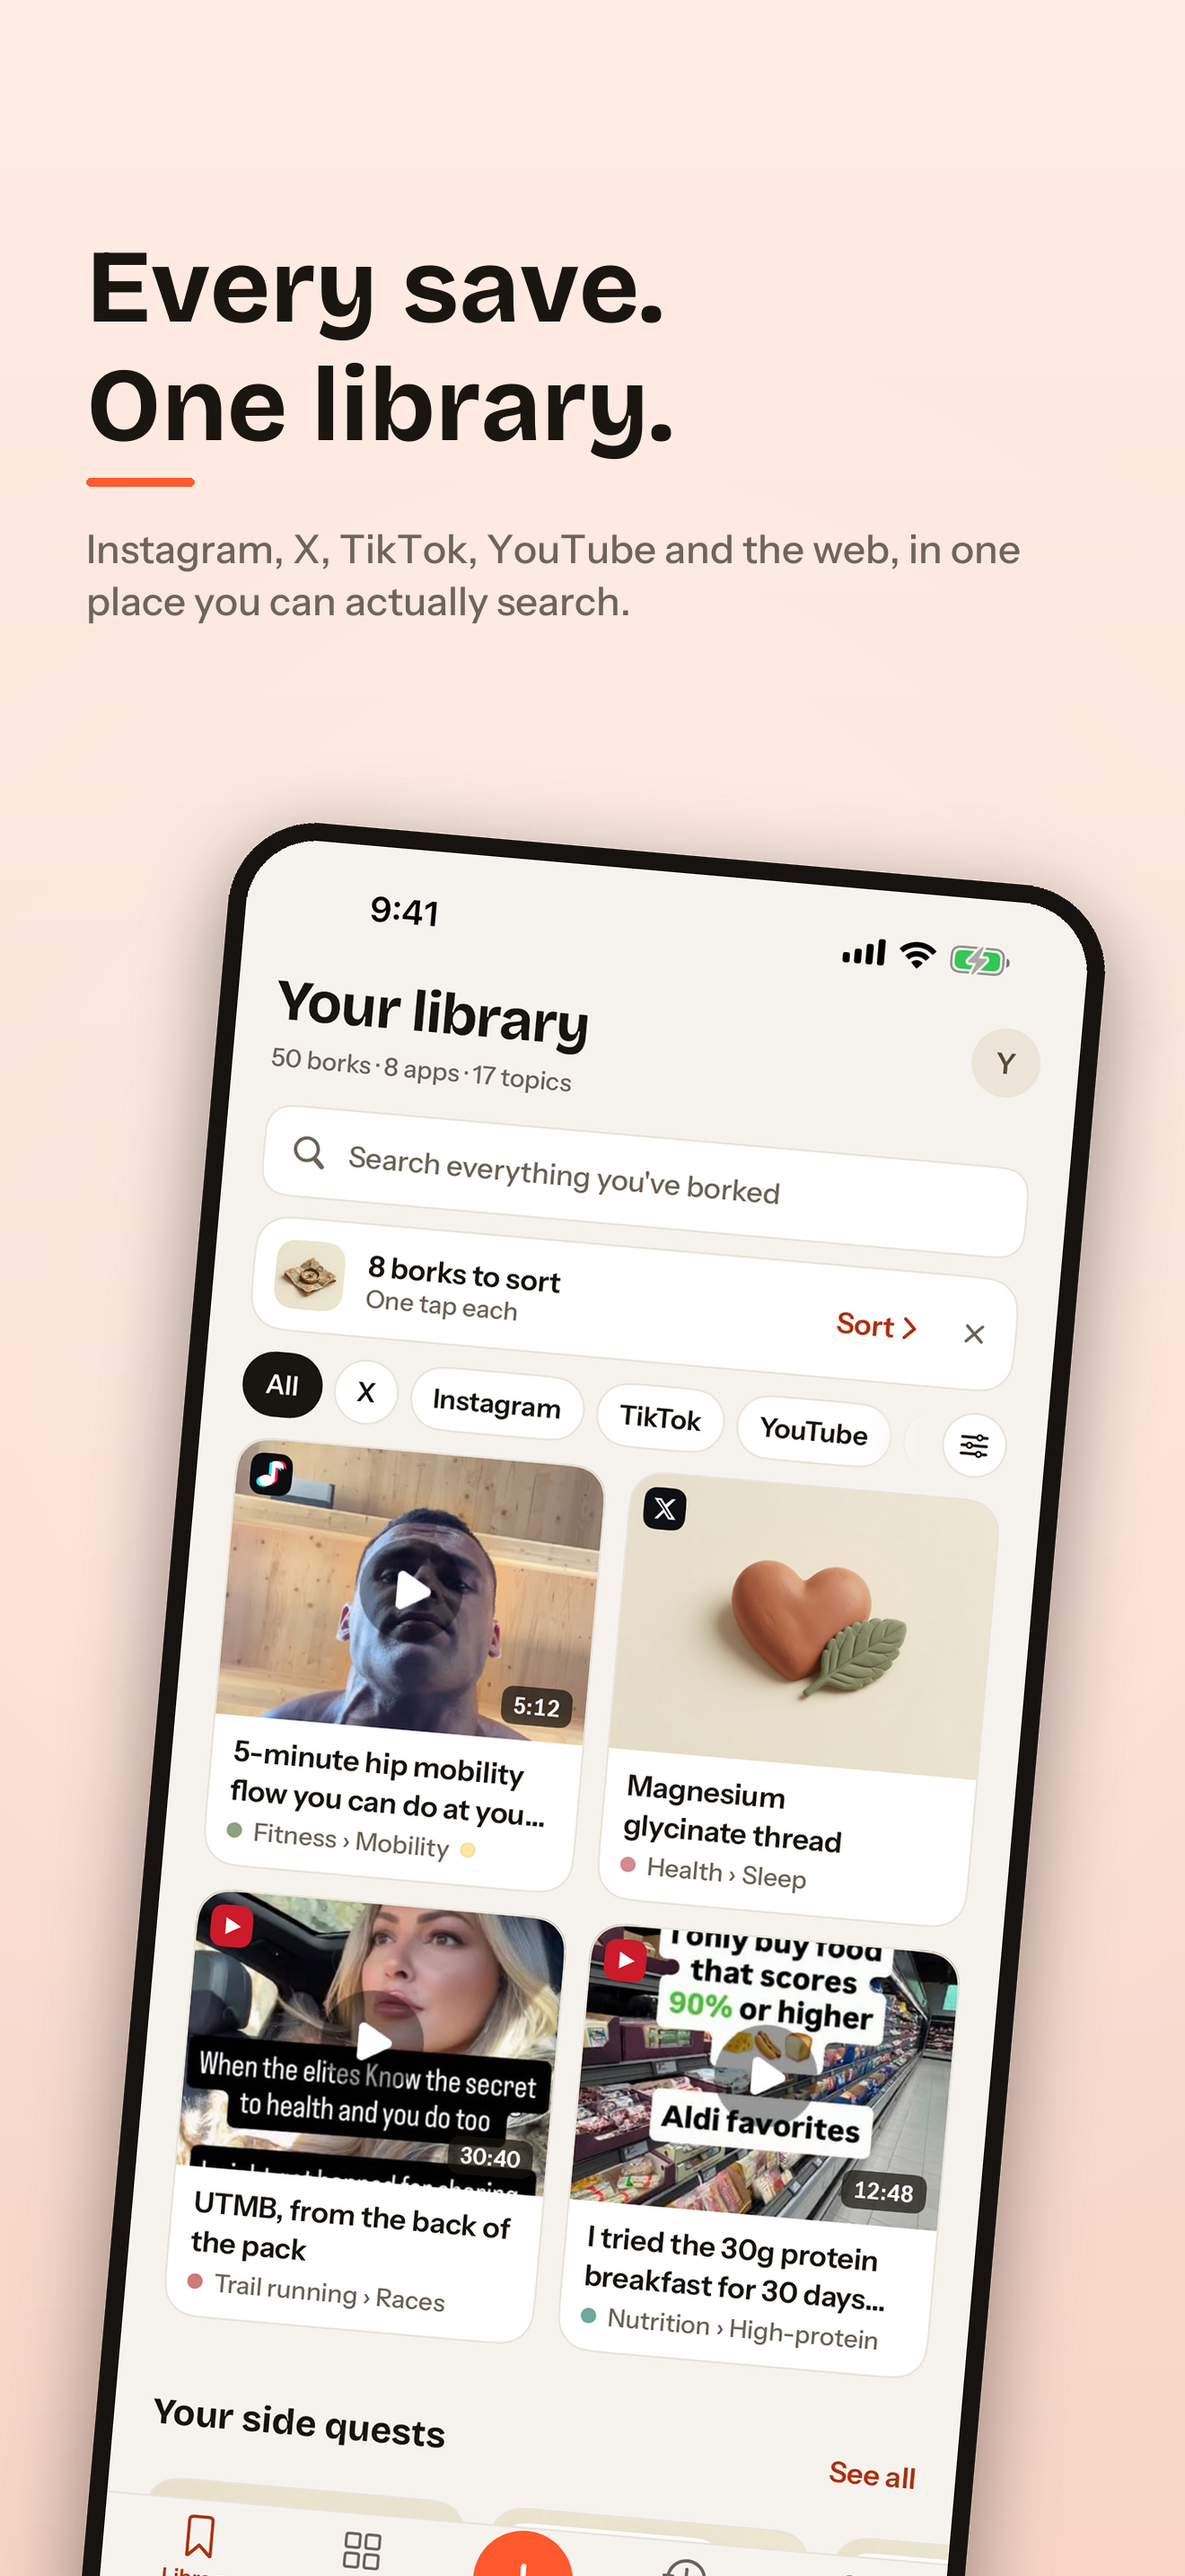
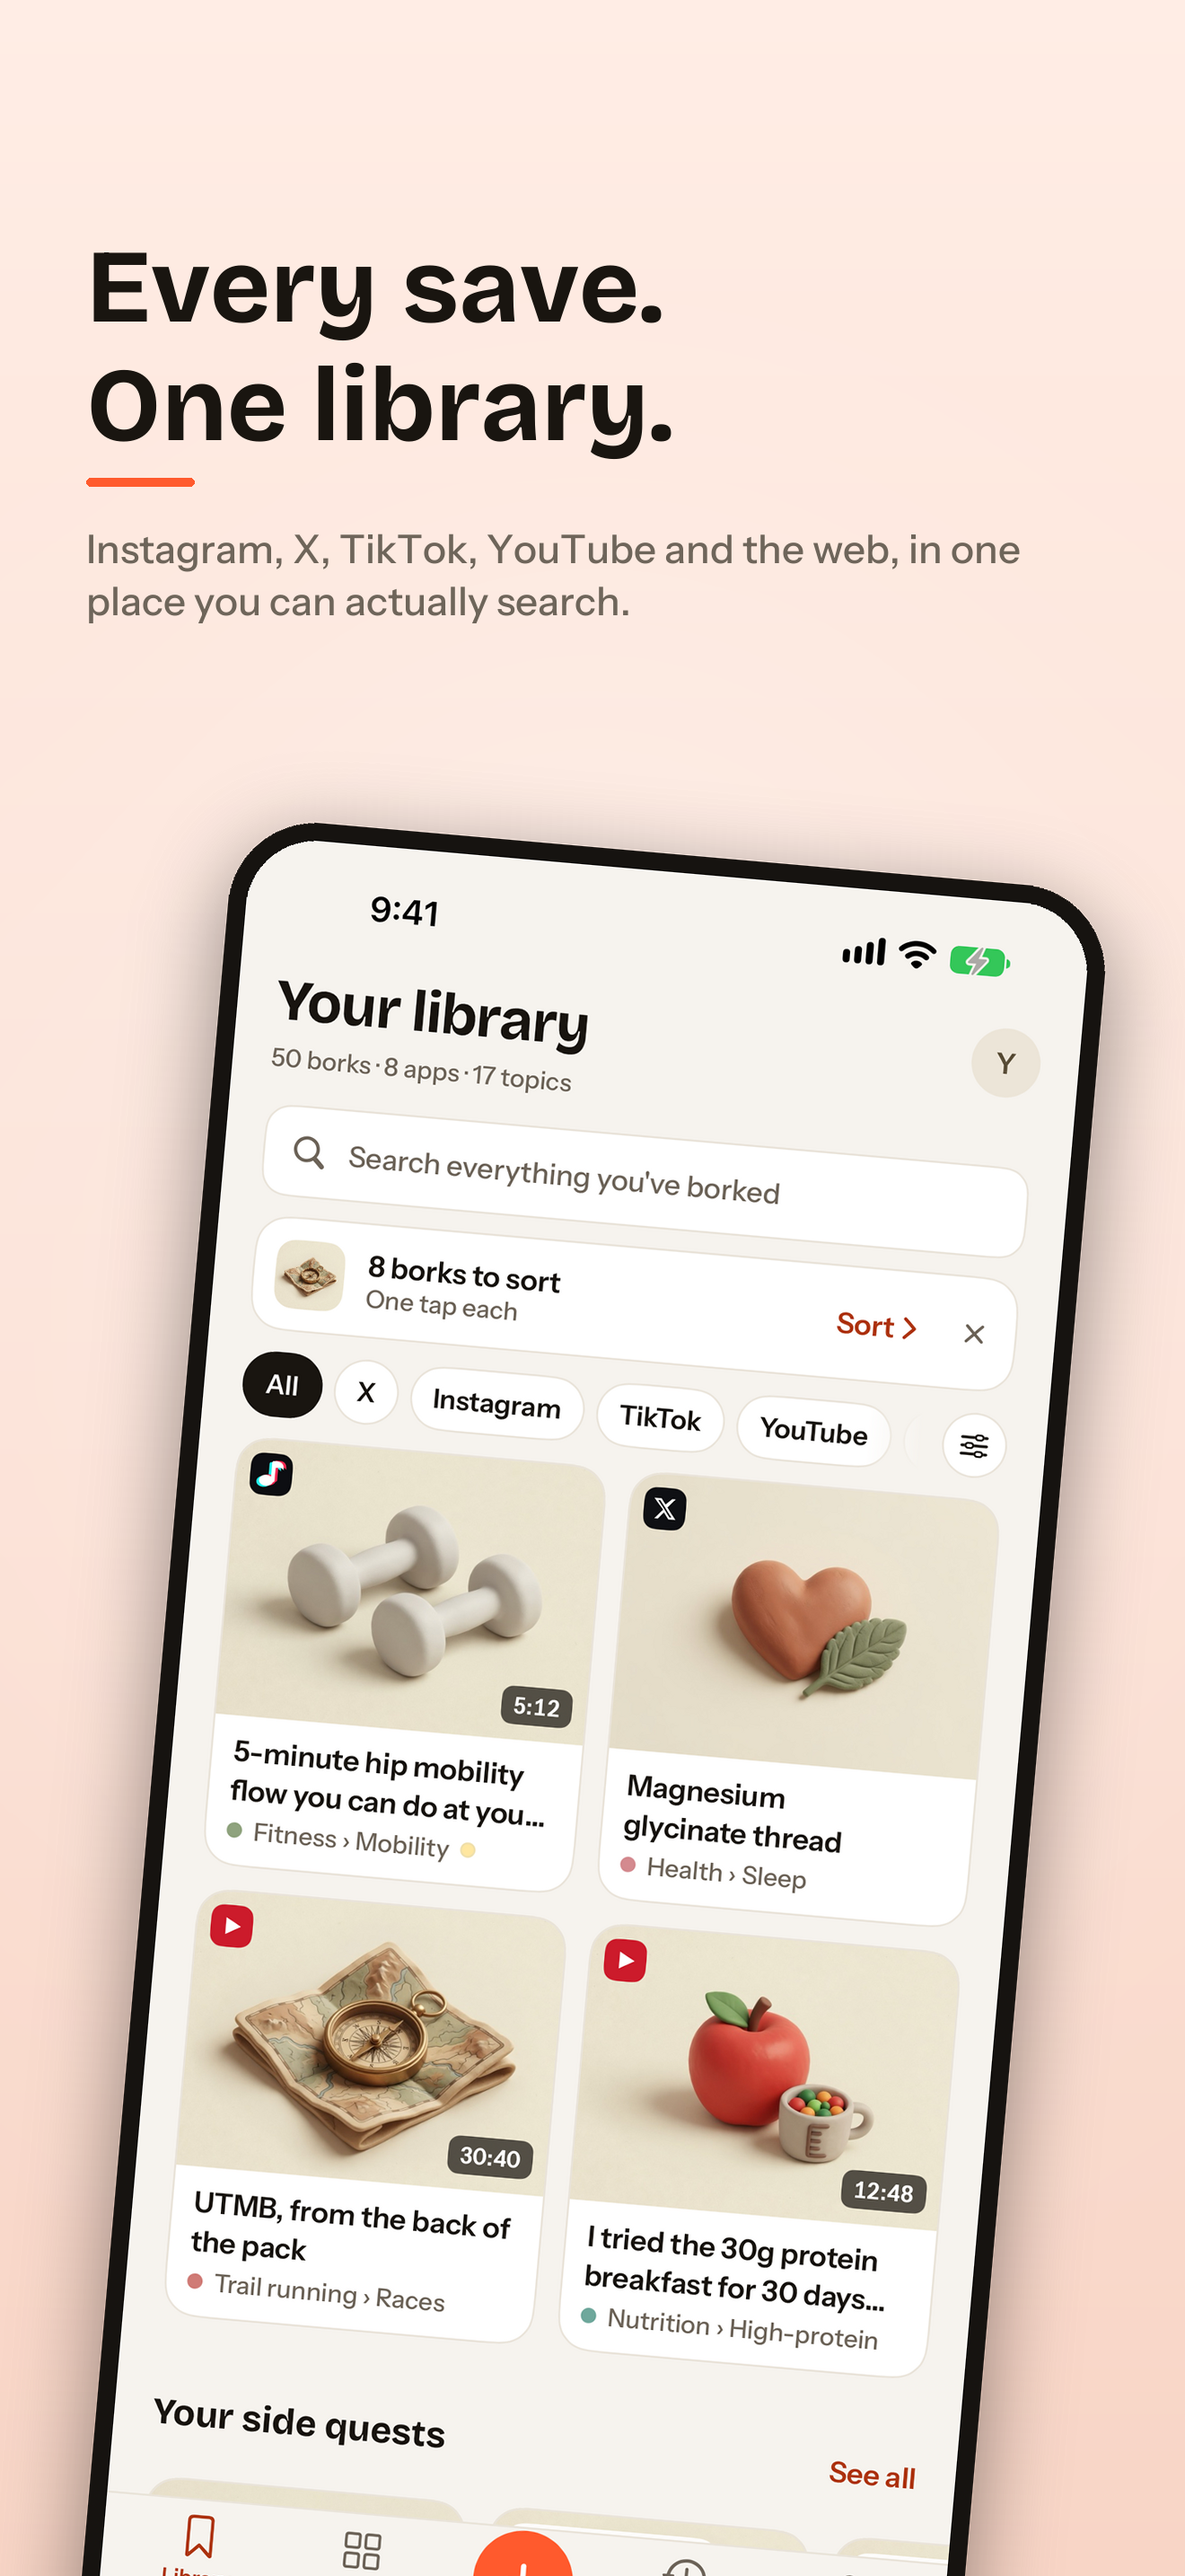
Yearly is $69.99; the App Store screenshots use the neutral covers
- Pro sheet and /pro: Yearly $69.99 ("5 months free", $5.83 a month).
- Marketing/screenshots and screenshots-6.5 are the neutral set (clay
  covers), and refresh_screenshots.sh composes them with NEUTRAL=1.

Changed region(s): [[0.1553, 0.7137, 0.8076, 0.8689], [0.1864, 0.5586, 0.528, 0.6827]]

diff --git a/App/Screens/ProSheet.swift b/App/Screens/ProSheet.swift
@@ -120,7 +120,7 @@ extension ProSheet {
         var price: String {
             switch self {
             case .monthly: "$9.99"
-            case .yearly: "$99.99"
+            case .yearly: "$69.99"
             case .lifetime: "$109"
             }
         }
@@ -133,10 +133,10 @@ extension ProSheet {
             }
         }
 
-        /// A year for the price of ten months of Monthly. Only Yearly has a
-        /// deal, and the plan with one wears the tinted card.
+        /// A year for about the price of seven months of Monthly. Only Yearly
+        /// has a deal, and the plan with one wears the tinted card.
         var deal: String? {
-            self == .yearly ? "Two months free" : nil
+            self == .yearly ? "Five months free" : nil
         }
 
         /// `https://bookmarker.lol/pro?plan=yearly&from=app-you`
@@ -144,7 +144,7 @@ extension ProSheet {
             URL(string: "https://bookmarker.lol/pro?plan=\(rawValue)&from=\(origin.rawValue)")!
         }
 
-        /// "Yearly, $99.99 a year, two months free"
+        /// "Yearly, $69.99 a year, five months free"
         var spoken: String {
             [name, "\(price) \(period)", deal?.lowercased()]
                 .compactMap { $0 }

diff --git a/docs/pro/index.html b/docs/pro/index.html
@@ -179,9 +179,9 @@
       <label class="plan" data-plan="yearly">
         <input type="radio" name="plan" value="yearly">
         <span class="dot" aria-hidden="true"></span>
-        <span class="plan-name">Yearly <span class="badge">2 months free</span></span>
-        <span class="plan-note">$8.33 a month, billed yearly</span>
-        <span class="plan-price"><b>$99.99</b><span>a year</span></span>
+        <span class="plan-name">Yearly <span class="badge">5 months free</span></span>
+        <span class="plan-note">$5.83 a month, billed yearly</span>
+        <span class="plan-price"><b>$69.99</b><span>a year</span></span>
       </label>
       <label class="plan" data-plan="lifetime">
         <input type="radio" name="plan" value="lifetime">
@@ -244,7 +244,7 @@ const ANON_KEY = "sb_publishable_z0wBO4NZrMW3T0ZywSDfJA_UoFRHMKb";
    nothing is sold, so there is no checkout to send anyone to. */
 const PLANS = {
   monthly: { name: "Monthly", price: "$9.99 a month" },
-  yearly: { name: "Yearly", price: "$99.99 a year" },
+  yearly: { name: "Yearly", price: "$69.99 a year" },
   lifetime: { name: "Lifetime", price: "$109 once" },
 };
 const $ = (id) => document.getElementById(id);

diff --git a/DECISIONS.md b/DECISIONS.md
@@ -2111,10 +2111,20 @@ at the exact same time."
   card covers or square row covers, and it rewrites the clip table itself.
   `Scripts/refresh_screenshots.sh` reruns the captures, the store panels and
   the website images in one go.
-- App Store screenshots can't animate. A neutral store set (`NEUTRAL=1
-  python3 Scripts/make_screenshots.py`) was made for the owner to choose
-  from, outside the repo; the committed set keeps the thumbnails.
+- App Store screenshots can't animate, so the owner chose the neutral set for
+  the store ("so that we don't risk Apple blocking it"): `Marketing/screenshots*`
+  are composed with `NEUTRAL=1`, and `Scripts/refresh_screenshots.sh` keeps it
+  that way. The owner approved the moving covers for the website the same day.
 - Rejected: a live HTML mock of the Library (a second UI that drifts with
   every design change) and per-cover cropped tiles (they shimmer against the
   base image while fading).
+
+## Yearly is $69.99 (design/quiet-clay, 1.4 build 23)
+
+The owner, 25 Nov 2026: "Let's change the yearly price to $69.99." With
+Lifetime at $109, Yearly at $99.99 was too close to it for the demand test to
+say anything about Yearly. $69.99 is about seven months of Monthly ($9.99), so
+the badge reads "5 months free" and the /pro note "$5.83 a month, billed
+yearly". Monthly $9.99 and Lifetime $109 are unchanged. Still a demand test:
+nothing is sold.
 

diff --git a/APPSTORE.md b/APPSTORE.md
@@ -515,9 +515,9 @@ Sizes in Media Manager" reveals both.
 It builds for the iPhone 17 Pro Max simulator, seeds demo data, sets 9:41 and
 captures to `Marketing/captures/`, composes these panels (needs Pillow), and
 rebuilds the website's screenshots in `docs/img/`. Screens that show creators'
-thumbnails are also captured as `-neutral` twins with clay covers; the website
-uses those, and `NEUTRAL=1 OUT=<folder> python3 Scripts/make_screenshots.py`
-makes a neutral store set from them.
+thumbnails are also captured as `-neutral` twins with clay covers. The store
+panels use those (`NEUTRAL=1`), so no creator's thumbnail is in the listing;
+the website shows the thumbnails only as motion over the clay covers.
 
 The captures use a DEBUG-only seed (`-seed` launch argument), so nothing
 personal is ever on screen. The panel headlines live at the top of
